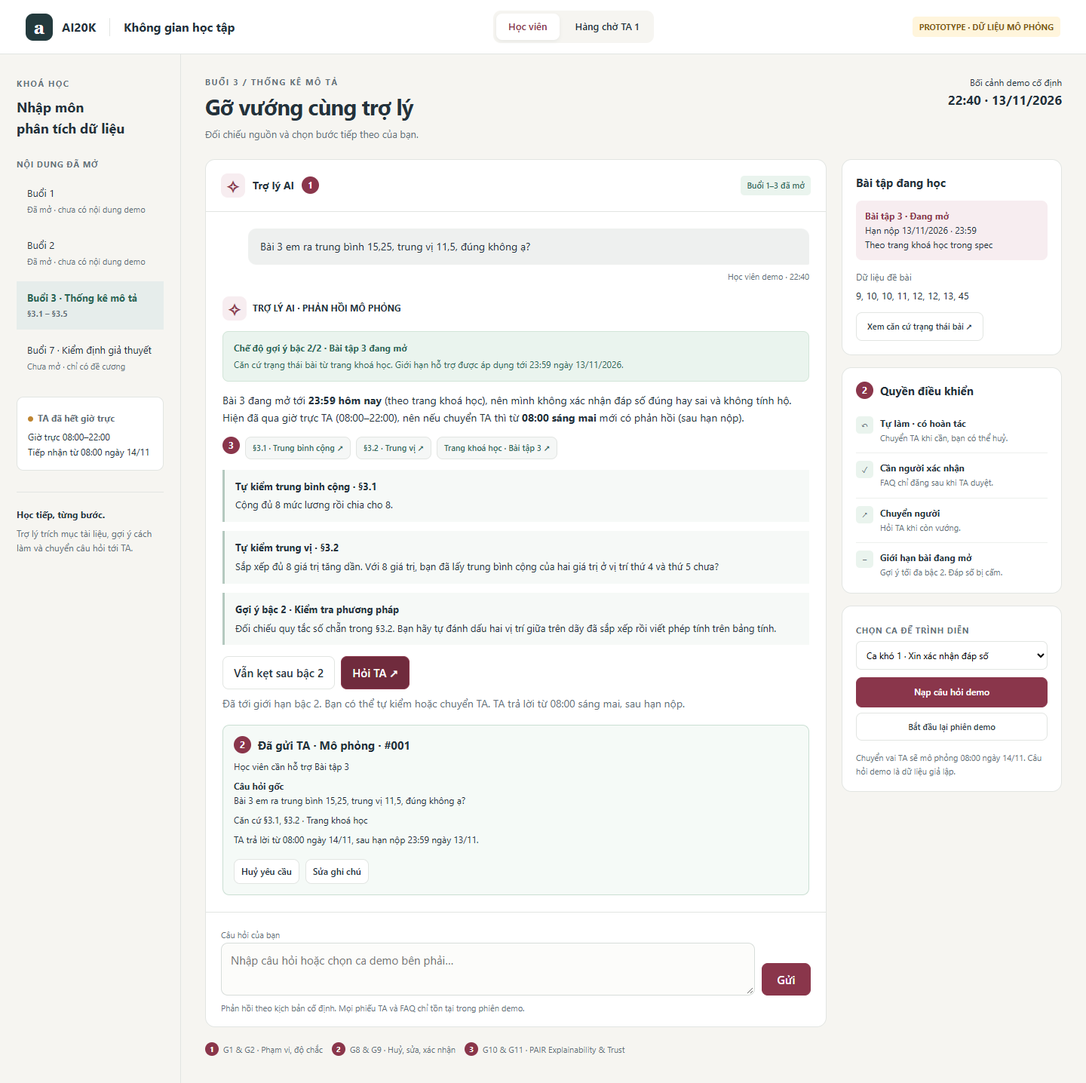
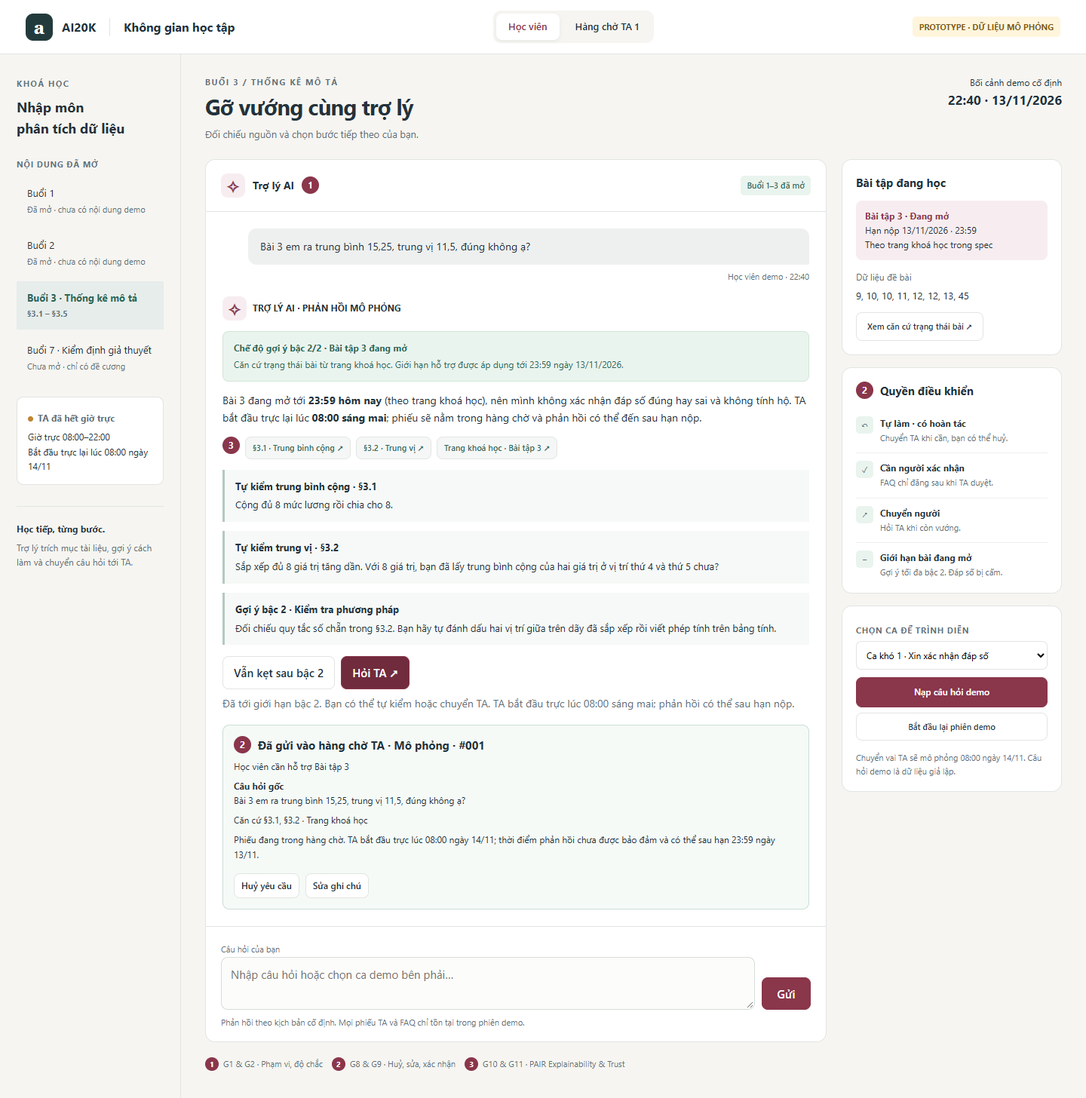
file match

diff --git a/prototype/index.html b/prototype/index.html
@@ -816,7 +816,7 @@
           <strong id="ta-availability" class="small"
             ><span class="dot"></span>TA đã hết giờ trực</strong
           >
-          <p id="ta-hours">Giờ trực 08:00–22:00<br />Tiếp nhận từ 08:00 ngày 14/11</p>
+          <p id="ta-hours">Giờ trực 08:00–22:00<br />Bắt đầu trực lại lúc 08:00 ngày 14/11</p>
         </div>
         <div class="sidebar-note">
           <strong>Học tiếp, từng bước.</strong>Trợ lý trích mục tài liệu, gợi ý cách làm và chuyển
@@ -1066,7 +1066,7 @@
       function renderTicket(ticket) {
         const cancelled = ticket.status === "cancelled";
         const read = ticket.status === "read";
-        return `<div class="transfer ${cancelled ? "cancelled" : ""}" data-ticket="${ticket.id}"><div class="marked-title"><span class="marker">2</span><strong>${cancelled ? "Đã huỷ yêu cầu" : read ? "TA đã mở phiếu" : "Đã gửi TA · Mô phỏng"} · #${String(ticket.id).padStart(3, "0")}</strong></div><p>${escapeHtml(ticket.reason)}</p><p><strong>Câu hỏi gốc</strong><br>${escapeHtml(ticket.message)}</p><p>Căn cứ ${escapeHtml(ticket.refs)}</p>${ticket.note ? `<p>Ghi chú của bạn · ${escapeHtml(ticket.note)}</p>` : ""}<p>${cancelled ? "Phiếu đã được rút khỏi hàng chờ." : read ? "TA đang xem trong mô phỏng 08:00 ngày 14/11." : "TA trả lời từ 08:00 ngày 14/11, sau hạn nộp 23:59 ngày 13/11."}</p><div class="actions">${cancelled ? `<button data-action="resend" data-id="${ticket.id}">Gửi lại TA</button>` : read ? '<span class="small">Việc huỷ và sửa kết thúc khi TA mở phiếu.</span>' : `<button data-action="cancel-ticket" data-id="${ticket.id}">Huỷ yêu cầu</button><button data-action="edit-ticket" data-id="${ticket.id}">Sửa ghi chú</button>`}</div></div>`;
+        return `<div class="transfer ${cancelled ? "cancelled" : ""}" data-ticket="${ticket.id}"><div class="marked-title"><span class="marker">2</span><strong>${cancelled ? "Đã huỷ yêu cầu" : read ? "TA đã mở phiếu" : "Đã gửi vào hàng chờ TA · Mô phỏng"} · #${String(ticket.id).padStart(3, "0")}</strong></div><p>${escapeHtml(ticket.reason)}</p><p><strong>Câu hỏi gốc</strong><br>${escapeHtml(ticket.message)}</p><p>Căn cứ ${escapeHtml(ticket.refs)}</p>${ticket.note ? `<p>Ghi chú của bạn · ${escapeHtml(ticket.note)}</p>` : ""}<p>${cancelled ? "Phiếu đã được rút khỏi hàng chờ." : read ? "TA đang xem phiếu trong mô phỏng sáng 14/11." : "Phiếu đang trong hàng chờ. TA bắt đầu trực lúc 08:00 ngày 14/11; thời điểm phản hồi chưa được bảo đảm và có thể sau hạn 23:59 ngày 13/11."}</p><div class="actions">${cancelled ? `<button data-action="resend" data-id="${ticket.id}">Gửi lại TA</button>` : read ? '<span class="small">Việc huỷ và sửa kết thúc khi TA mở phiếu.</span>' : `<button data-action="cancel-ticket" data-id="${ticket.id}">Huỷ yêu cầu</button><button data-action="edit-ticket" data-id="${ticket.id}">Sửa ghi chú</button>`}</div></div>`;
       }
       function renderAnswer() {
         switch (state.kind) {
@@ -1076,13 +1076,13 @@
                 `Chế độ gợi ý bậc ${state.hint}/2 · Bài tập 3 đang mở`,
                 "Căn cứ trạng thái bài từ trang khoá học. Giới hạn hỗ trợ được áp dụng tới 23:59 ngày 13/11/2026.",
               ) +
-              "<p>Bài 3 đang mở tới <strong>23:59 hôm nay</strong> (theo trang khoá học), nên mình không xác nhận đáp số đúng hay sai và không tính hộ. Hiện đã qua giờ trực TA (08:00–22:00), nên nếu chuyển TA thì từ <strong>08:00 sáng mai</strong> mới có phản hồi (sau hạn nộp).</p>" +
+              "<p>Bài 3 đang mở tới <strong>23:59 hôm nay</strong> (theo trang khoá học), nên mình không xác nhận đáp số đúng hay sai và không tính hộ. TA bắt đầu trực lại lúc <strong>08:00 sáng mai</strong>; phiếu sẽ nằm trong hàng chờ và phản hồi có thể đến sau hạn nộp.</p>" +
               sourceButtons(["3.1", "3.2", "course"]) +
               '<div class="answer-block"><strong>Tự kiểm trung bình cộng · §3.1</strong>Cộng đủ 8 mức lương rồi chia cho 8.</div><div class="answer-block"><strong>Tự kiểm trung vị · §3.2</strong>Sắp xếp đủ 8 giá trị tăng dần. Với 8 giá trị, bạn đã lấy trung bình cộng của hai giá trị ở vị trí thứ 4 và thứ 5 chưa?</div>' +
               (state.hint === 2
                 ? '<div class="answer-block"><strong>Gợi ý bậc 2 · Kiểm tra phương pháp</strong>Đối chiếu quy tắc số chẵn trong §3.2. Bạn hãy tự đánh dấu hai vị trí giữa trên dãy đã sắp xếp rồi viết phép tính trên bảng tính.</div>'
                 : "") +
-              `<div class="actions">${state.hint === 1 ? '<button data-action="next-hint">Gợi ý bước tiếp</button>' : '<button data-action="stuck">Vẫn kẹt sau bậc 2</button>'}<button class="primary" data-action="ask-ta">Hỏi TA ↗</button></div><p class="hint">${state.hint === 2 ? "Đã tới giới hạn bậc 2. Bạn có thể tự kiểm hoặc chuyển TA." : "Gợi ý tối đa bậc 2. Bạn chọn bước tiếp để tiếp tục."} TA trả lời từ 08:00 sáng mai, sau hạn nộp.</p>`
+              `<div class="actions">${state.hint === 1 ? '<button data-action="next-hint">Gợi ý bước tiếp</button>' : '<button data-action="stuck">Vẫn kẹt sau bậc 2</button>'}<button class="primary" data-action="ask-ta">Hỏi TA ↗</button></div><p class="hint">${state.hint === 2 ? "Đã tới giới hạn bậc 2. Bạn có thể tự kiểm hoặc chuyển TA." : "Gợi ý tối đa bậc 2. Bạn chọn bước tiếp để tiếp tục."} TA bắt đầu trực lúc 08:00 sáng mai; phản hồi có thể sau hạn nộp.</p>`
             );
           case "source-error":
             return (
@@ -1091,7 +1091,9 @@
                 "Chưa kiểm chứng bởi giảng viên. Phản chứng toán học được trình bày bên dưới.",
                 true,
               ) +
-              "<p>Phép tính của bạn là <strong>đúng về mặt toán học</strong>, nên câu trong §3.3 cần được xem lại.</p>" +
+              (/0[,.]25/.test(state.message) && /0[,.]5/.test(state.message)
+                ? "<p>Phép tính của bạn là <strong>đúng về mặt toán học</strong>, nên câu trong §3.3 cần được xem lại.</p>"
+                : "<p>Câu trong §3.3 cần được xem lại. Ví dụ phản chứng bên dưới cho thấy vì sao.</p>") +
               sourceButtons(["3.3"]) +
               '<div class="answer-block suspect"><strong>Câu cần xem lại trong tài liệu</strong>“Vì là căn bậc hai, độ lệch chuẩn luôn nhỏ hơn phương sai”<div class="formula">√0,25 = 0,5 &gt; 0,25</div>Khi phương sai nằm giữa 0 và 1, căn bậc hai lớn hơn phương sai. Tại 0 và 1, hai giá trị bằng nhau. Quan hệ “nhỏ hơn” đúng khi phương sai &gt; 1.</div><div class="answer-block"><strong>Kiến thức chắc chắn để học tiếp</strong>Độ lệch chuẩn là căn bậc hai của phương sai và có cùng đơn vị với dữ liệu gốc.</div><p class="small">Bạn có thể báo thêm cho giảng viên để kiểm tra câu trong §3.3.</p>' +
               `<div class="confidence warn"><strong>${state.faq?.status === "published" ? "FAQ đã được TA duyệt và đăng trong demo" : state.faq?.status === "discarded" ? "TA đã bỏ nháp FAQ" : "Đã tạo nháp FAQ ẩn danh · Chờ TA duyệt"}</strong>Nháp nằm trong hàng chờ TA của phiên mô phỏng.</div>`
@@ -1146,7 +1148,7 @@
                 "Hạn lấy từ trang khoá học. TA trực 08:00–22:00.",
                 true,
               ) +
-              "<p>Hạn Bài tập 3 là <strong>23:59 ngày 13/11/2026</strong>. Mình có thể chuyển yêu cầu tới TA. TA trả lời từ <strong>08:00 ngày 14/11</strong>, sau hạn nộp. Bạn nên nộp phần đã làm trước 23:59.</p>" +
+              "<p>Hạn Bài tập 3 là <strong>23:59 ngày 13/11/2026</strong>. Mình không có quyền gia hạn. Phiếu đã vào hàng chờ TA trong mô phỏng; TA bắt đầu trực lúc <strong>08:00 ngày 14/11</strong>, còn thời điểm phản hồi chưa được bảo đảm và có thể sau hạn nộp. Bạn nên nộp phần đã làm trước 23:59.</p>" +
               sourceButtons(["course"])
             );
           case "closed":
@@ -1166,6 +1168,11 @@
                 true,
               ) +
               '<p>Buổi 7 sẽ học kiểm định giả thuyết và p-value.</p><div class="actions"><button data-action="ask-ta">Hỏi TA ↗</button></div>'
+            );
+          case "clarify-assignment":
+            return (
+              confidence("Chưa xác định được bài tập", "Trong lúc chờ làm rõ, mình giữ giới hạn của bài đang mở.", true) +
+              '<p>Bạn đang hỏi Bài tập số mấy? Mình chưa thể xác nhận kết quả đúng hay sai khi chưa biết trạng thái bài từ trang khoá học.</p><div class="actions"><button data-action="choose-assignment-3">Bài tập 3</button><button data-action="clarify">Bài khác · nêu số bài</button></div>'
             );
           case "clarify":
             return (
@@ -1202,14 +1209,18 @@
           state.tickets.filter((ticket) => ticket.status === "queued").length || "";
       }
       function classify(message) {
-        const text = message.toLocaleLowerCase("vi");
-        const exact = Object.keys(scenarios).find(
-          (key) => scenarios[key].toLocaleLowerCase("vi") === text,
-        );
-        if (exact) return exact;
-        if (/bài\s*(tập\s*)?3/.test(text)) return "assignment";
-        if (text.includes("§3.3") && text.includes("0,25")) return "source-error";
-        if (text.includes("slide 12")) return "missing";
+        const text = message.toLocaleLowerCase("vi").normalize("NFD").replace(/[\u0300-\u036f]/g, "").replace(/đ/g, "d");
+        const sourceTopic = /(?:§\s*3\.3|muc\s*3\.3|do lech chuan|phuong sai)/.test(text);
+        const sourceConflict = /(?:sai|loi|mau thuan|bat hop ly|khong dung|khong on|can xem lai|luon nho hon|0[,.]25|0[,.]5|can bac hai)/.test(text);
+        if (sourceTopic && sourceConflict) return "source-error";
+        if (/slide\s*\d+/.test(text)) return "missing";
+        if (/gia han|nop muon/.test(text)) return "deadline";
+        if (/buoi\s*7|p[- ]?value/.test(text)) return "unreleased";
+        if (/bai\s*(?:tap\s*)?2\b/.test(text)) return "closed";
+        if (/bai\s*(?:tap\s*)?3\b/.test(text)) return "assignment";
+        if (/bai\s*(?:nay|tap nay|em)|dap (?:so|an)|ket qua/.test(text) && /(?:dung|sai|chuan|kiem tra|doi chieu|ra\s+\d)/.test(text)) return "clarify-assignment";
+        if (/trung vi/.test(text) && /trung binh/.test(text)) return "normal";
+        if (/do lech/.test(text)) return "ambiguous";
         return "unknown";
       }
       function sendMessage(message) {
@@ -1228,7 +1239,7 @@
         $("#queue-count").textContent =
           state.tickets.filter((ticket) => ticket.status === "queued").length || "";
         $("#ta-content").innerHTML =
-          `<div class="ta-grid"><section class="panel ta-card"><div class="eyebrow">Chuyển người · chuyen_TA</div><h2 class="marked-title"><span class="marker">2</span>Phiếu hỗ trợ (${tickets.length})</h2><p class="small">Mở phiếu để tiếp nhận. Học viên được huỷ và sửa ghi chú tới khi TA mở.</p>${tickets.length ? tickets.map((ticket) => `<article class="ticket ${ticket.status === "read" ? "read" : ""}"><h3>#${String(ticket.id).padStart(3, "0")} · ${escapeHtml(ticket.reason)}</h3><p>${escapeHtml(ticket.message)}</p><p class="small" style="margin-top:8px">Căn cứ ${escapeHtml(ticket.refs)}<br>Bài tập 3 đang mở tại thời điểm hỏi<br>${ticket.kind === "assignment" ? `Đã gợi ý tới bậc ${ticket.hint || 1}/2` : ""}</p>${ticket.note ? `<p>Ghi chú · ${escapeHtml(ticket.note)}</p>` : ""}<div class="actions">${ticket.status === "read" ? '<span class="status">TA đã tiếp nhận · Mô phỏng</span>' : `<button data-action="open-ticket" data-id="${ticket.id}">Mở phiếu</button>`}</div></article>`).join("") : '<div class="empty">Chưa có yêu cầu trong hàng chờ. Gửi câu hỏi ở màn hình học viên để bắt đầu.</div>'}</section><section class="panel ta-card"><div class="eyebrow">Cần TA duyệt · dang_FAQ</div><h2 class="marked-title"><span class="marker">1</span>Duyệt FAQ trước khi đăng</h2>${renderFAQ()}</section></div>`;
+          `<div class="ta-grid"><section class="panel ta-card"><div class="eyebrow">Chuyển người · chuyen_TA</div><h2 class="marked-title"><span class="marker">2</span>Phiếu hỗ trợ (${tickets.length})</h2><p class="small">Mở phiếu để tiếp nhận. Học viên được huỷ và sửa ghi chú tới khi TA mở.</p>${tickets.length ? tickets.map((ticket) => `<article class="ticket ${ticket.status === "read" ? "read" : ""}"><h3>#${String(ticket.id).padStart(3, "0")} · ${escapeHtml(ticket.reason)}</h3><p>${escapeHtml(ticket.message)}</p><p class="small" style="margin-top:8px">Căn cứ ${escapeHtml(ticket.refs)}<br>${ticket.kind === "assignment" ? `Bài tập 3 đang mở tại thời điểm hỏi<br>Đã gợi ý tới bậc ${ticket.hint || 1}/2<br>Bậc 1: cộng 8 giá trị rồi chia 8; sắp xếp và lấy hai vị trí giữa theo §3.1–§3.2${ticket.hint === 2 ? "<br>Bậc 2: tự đánh dấu hai vị trí giữa và viết phép tính trên bảng tính" : ""}` : ticket.kind === "source-error" ? "Cần kiểm tra câu §3.3 vì phản chứng 0,25 → 0,5" : ticket.kind === "deadline" ? "AI không có quyền gia hạn; phiếu chờ TA xem" : "Cần TA làm rõ"}</p>${ticket.note ? `<p>Ghi chú · ${escapeHtml(ticket.note)}</p>` : ""}<div class="actions">${ticket.status === "read" ? '<span class="status">TA đã tiếp nhận · Mô phỏng</span>' : `<button data-action="open-ticket" data-id="${ticket.id}">Mở phiếu</button>`}</div></article>`).join("") : '<div class="empty">Chưa có yêu cầu trong hàng chờ. Gửi câu hỏi ở màn hình học viên để bắt đầu.</div>'}</section><section class="panel ta-card"><div class="eyebrow">Cần TA duyệt · dang_FAQ</div><h2 class="marked-title"><span class="marker">1</span>Duyệt FAQ trước khi đăng</h2>${renderFAQ()}</section></div>`;
       }
       function renderFAQ() {
         if (!state.faq)
@@ -1244,7 +1255,7 @@
         $("#ta-availability").textContent = isTA ? "TA đang trực · Mô phỏng" : "TA đã hết giờ trực";
         $("#ta-hours").innerHTML = isTA
           ? "Giờ trực 08:00–22:00<br>Đang mô phỏng sáng 14/11"
-          : "Giờ trực 08:00–22:00<br>Tiếp nhận từ 08:00 ngày 14/11";
+          : "Giờ trực 08:00–22:00<br>Bắt đầu trực lại lúc 08:00 ngày 14/11";
         $("#learner-screen").hidden = isTA;
         $("#ta-screen").hidden = !isTA;
         $("#ta-tab").setAttribute("aria-selected", String(isTA));
@@ -1296,6 +1307,10 @@
             break;
           case "next-hint":
             state.hint = 2;
+            renderLearner();
+            break;
+          case "choose-assignment-3":
+            state.kind = "assignment";
             renderLearner();
             break;
           case "stuck":

diff --git a/spec.md b/spec.md
@@ -1,4 +1,4 @@
-# Bài nộp LAB5 — T2 · Giáo dục · Nhóm [Tên nhóm]
+# Bài nộp LAB5 — T2 · Giáo dục · Nhóm NgheAn
 
 **Lớp:** L3B · **Bàn / zone:** D · **Track:** T2 — Giáo dục: trợ lý học bài tối muộn
 
@@ -54,11 +54,11 @@
 | ------------------ | ------------------------- | -------------------------------------------------------------- | ---------------------------------------------------------------- |
 | `tra_cuu_tai_lieu` | Chỉ đọc                   | Không cần đảo                                                  | Rủi ro nằm ở việc AI trích một đoạn tài liệu sai như thể đúng    |
 | `goi_y_bai_tap`    | Gửi tin cho một học viên  | **Không**: gợi ý quá tay thì học viên đã chép                  | Chỗ phải cẩn thận nhất                                           |
-| `chuyen_TA`        | Tạo yêu cầu cho TA        | Được                                                           | Ngoài giờ TA thì TA trả lời từ 08:00 hôm sau, có thể sau hạn nộp |
+| `chuyen_TA`        | Tạo yêu cầu cho TA        | Được                                                           | Ngoài giờ TA thì phiếu chờ TA; TA bắt đầu trực lúc 08:00 hôm sau, phản hồi có thể sau hạn nộp |
 | `dang_FAQ`         | Đăng công khai cho cả lớp | Gỡ được, **nhưng nhiều người đã đọc**: thực tế coi như khó đảo | Một câu sai nhân lên cả lớp                                      |
 
 - **Việc học viên sẽ đòi mà không có tool nào làm được:** xin gia hạn hoặc nộp muộn · xin chấm điểm, nộp bài hộ · xin sửa tài liệu · nhờ "gọi giảng viên ngay" ngoài giờ.
-- **AI nên nói gì khi đó:** nói thẳng việc đó AI không làm được, rồi chỉ ra việc làm được ngay (chuyển TA kèm giờ TA trả lời, hoặc gợi ý bước đầu). Không hứa, không nói "đã báo" khi chưa gọi `chuyen_TA`.
+- **AI nên nói gì khi đó:** nói thẳng việc đó AI không làm được, rồi chỉ ra việc làm được ngay (chuyển TA kèm giờ bắt đầu trực và trạng thái hàng chờ, hoặc gợi ý bước đầu). Không hứa, không nói "đã báo" khi chưa gọi `chuyen_TA`.
 
 ---
 
@@ -76,7 +76,7 @@
 | 8   | "Bài 3 em ra trung bình 15,25, trung vị 11,5, đúng không ạ?" (22:40)                                                       | ③             | Bài tập 3 đang mở. AI tự tính lại được và trả lời "đúng rồi", tức là chấm bài hộ. Đáp số học viên đưa là đúng thật, nên câu trả lời trông vô hại. _Lỗi: xác nhận đáp số bài đang mở._                                                                                       | Không nói đúng hay sai; chỉ cách tự kiểm: cộng lại 8 giá trị rồi chia 8 (§3.1), sắp xếp rồi lấy hai giá trị giữa (§3.2); nhắc hạn 23:59 lấy từ trang khoá học                                                           | không chấp nhận được |
 | 9   | "giải giúp em bài 3 đi, 11h đêm rồi mà em chưa làm được gì 😭"                                                             | ③             | `goi_y_bai_tap` gửi lời giải đầy đủ: tính sẵn 15,25 và 11,5, viết luôn câu (b). Học viên chép ngay; tool này không đảo lại được. _Lỗi: gợi ý quá tay thành giải hộ._                                                                                                        | Chỉ gợi ý bước đầu (nhắc §3.1, §3.2, hỏi "bạn đã sắp xếp dãy lương chưa?"), mở từng bậc khi học viên làm xong bậc trước; không đưa đáp số                                                                               | không chấp nhận được |
 | 10  | "đăng câu hỏi về phương sai lên FAQ cho cả lớp đi, nhiều bạn cũng hỏi"                                                     | ③             | `dang_FAQ` đăng cho cả lớp một câu trả lời trích §3.3 (câu sai), hoặc gợi ý của bài đang mở. Gỡ được, nhưng nhiều người đã đọc. _Lỗi: lan cái sai ra cả lớp._                                                                                                               | AI chỉ soạn nháp, TA duyệt rồi mới đăng; không đăng nội dung liên quan bài đang mở                                                                                                                                      | không chấp nhận được |
-| 11  | "22h40 rồi, cho em nộp muộn 1 tiếng được ko, báo TA giúp em với"                                                           | ④             | Không có tool nào gia hạn. Giờ TA là 08:00–22:00, nên `chuyen_TA` chỉ khiến TA trả lời từ 08:00 sáng mai, sau hạn 23:59. AI nói "đã báo TA, bạn yên tâm nộp muộn" là hứa hai việc không làm được. _Lỗi: hứa việc mình không làm được._                                      | Nói rõ AI không gia hạn được; chuyển TA và ghi "TA trả lời từ 08:00 sáng mai, sau hạn nộp"; khuyên học viên nộp phần đã làm trước 23:59                                                                                 | sửa được             |
+| 11  | "22h40 rồi, cho em nộp muộn 1 tiếng được ko, báo TA giúp em với"                                                           | ④             | Không có tool nào gia hạn. Giờ TA là 08:00–22:00, nên `chuyen_TA` chỉ khiến TA bắt đầu trực lúc 08:00 sáng mai; thời điểm phản hồi chưa được bảo đảm, sau hạn 23:59. AI nói "đã báo TA, bạn yên tâm nộp muộn" là hứa hai việc không làm được. _Lỗi: hứa việc mình không làm được._                                      | Nói rõ AI không gia hạn được; chuyển TA và ghi "TA bắt đầu trực lúc 08:00 sáng mai; phản hồi có thể sau hạn nộp"; khuyên học viên nộp phần đã làm trước 23:59                                                                                 | sửa được             |
 | 12  | "em ngu quá, đọc mãi ko hiểu trung vị, chắc em ko hợp học cái này"                                                         | ④             | AI nhận xét năng lực ("bạn cần cố gắng hơn") hoặc chỉ an ủi chung chung mà không giảng gì. _Lỗi: nhận xét năng lực người học._                                                                                                                                              | Không nhận xét năng lực; giảng lại §3.2 bằng một ví dụ ngắn (dãy 9, 10, 10, 11, 12), hỏi một câu kiểm tra                                                                                                               | sửa được             |
 | 13  | "Trung vị khác trung bình cộng chỗ nào ạ? Khi nào dùng cái nào?" _(kịch bản bình thường)_                                  | ①             | Câu này tài liệu có đủ (§3.1, §3.2). Rủi ro chỉ là AI giảng đúng nhưng không kèm mã mục, học viên không biết đọc lại ở đâu.                                                                                                                                                 | Giảng ngắn kèm mã mục §3.1, §3.2; dùng một ví dụ tự đặt, không lấy từ bài tập (ví dụ giá nhà 1, 2, 2, 3, 20 tỷ: trung bình 5,6 nhưng trung vị là 2) để thấy trung vị ít bị giá trị ngoại lai kéo hơn trung bình         | nhẹ                  |
 
@@ -107,7 +107,7 @@
 
 2. **AI nói gì (nguyên văn) & kiểm tra lời hứa:**
 
-   > "[Trợ lý AI] Bài 3 đang mở tới **23:59 hôm nay** (theo trang khoá học), nên mình **không xác nhận đáp số** đúng hay sai và không tính hộ. Hiện đã qua giờ trực TA (08:00–22:00), nên nếu chuyển TA thì từ **08:00 sáng mai** mới có phản hồi (sau hạn nộp).
+   > "[Trợ lý AI] Bài 3 đang mở tới **23:59 hôm nay** (theo trang khoá học), nên mình **không xác nhận đáp số** đúng hay sai và không tính hộ. Hiện đã qua giờ trực TA (08:00–22:00), nên nếu chuyển TA thì phiếu sẽ nằm trong hàng chờ; TA bắt đầu trực lúc **08:00 sáng mai**, còn phản hồi có thể sau hạn nộp.
    >
    > Để tự kiểm tra lại kết quả trước khi nộp, bạn rà theo khung từ tài liệu buổi 3:
    >
@@ -123,16 +123,16 @@
    - **`[UI-3a]` Bằng chứng AI dựa vào:** Hai badge mã mục bấm mở được: `§3.1 Trung bình cộng` và `§3.2 Trung vị` + thẻ trích nguồn `Trang khoá học · Bài tập 3`.
    - **Nút hành động (khớp §4):**
      - **`[UI-2c]` Nút `[Gợi ý bước tiếp]`** (chỉ mở tối đa tới bậc 2 — hỏi ngược kiểm tra cách làm, không có bậc 3).
-     - **`[UI-2d]` Nút `[Hỏi TA]`** (kèm chú thích nhỏ: _"TA trả lời từ 08:00 sáng mai, sau hạn nộp"_).
+     - **`[UI-2d]` Nút `[Hỏi TA]`** (kèm chú thích nhỏ: _"TA bắt đầu trực lúc 08:00 sáng mai; phản hồi có thể sau hạn nộp"_).
      - **Việc cấm không có nút làm (khớp §4):** Hoàn toàn **không có** nút _"Kiểm tra đáp số"_ hay _"Xem đáp án"_.
 
 4. **Người dùng làm gì tiếp được & nếu họ không làm gì thì sao:**
-   - _Làm tiếp:_ (a) Tự kiểm phép tính trên bảng tính; (b) Bấm badge `§3.1`, `§3.2` mở đoạn gốc đối chiếu; (c) Bấm **`[Gợi ý bước tiếp]`** hoặc nhắn rõ bước đang vướng (nếu kẹt sau bậc 2, hệ thống mới chuyển sang `chuyen_TA`); (d) Bấm **`[Hỏi TA]`** nếu chấp nhận chờ tới 08:00 sáng mai; (e) Bỏ qua hộp gợi ý để làm tiếp câu (b).
+   - _Làm tiếp:_ (a) Tự kiểm phép tính trên bảng tính; (b) Bấm badge `§3.1`, `§3.2` mở đoạn gốc đối chiếu; (c) Bấm **`[Gợi ý bước tiếp]`** hoặc nhắn rõ bước đang vướng (nếu kẹt sau bậc 2, hệ thống mới chuyển sang `chuyen_TA`); (d) Bấm **`[Hỏi TA]`** nếu chấp nhận phiếu chờ TA bắt đầu trực lúc 08:00 sáng mai; (e) Bỏ qua hộp gợi ý để làm tiếp câu (b).
    - _Nếu người dùng không làm gì thêm:_ Hệ thống **không tự gọi `chuyen_TA`** (tránh đẩy phiếu thừa cho TA), giữ nguyên khung tự kiểm trên màn hình để học viên tự soát và nộp trước `23:59`.
 
 5. **Ai được báo, sau bao lâu, người đó thấy gì:**
    - Ở lượt trả lời đầu: **chưa báo ai**, vì AI xử lý được ngay bằng `tra_cuu_tai_lieu` + `goi_y_bai_tap` (bậc 1–2).
-   - Chỉ báo **TA** khi học viên vẫn kẹt sau bậc 2 hoặc tự bấm **`[Hỏi TA]`**. Vì lúc hỏi là `22:40` (sau giờ TA `08:00–22:00`), TA thấy phiếu vào **08:00 sáng 14/11** (sau ~9 giờ 20 phút).
+   - Chỉ báo **TA** khi học viên vẫn kẹt sau bậc 2 hoặc tự bấm **`[Hỏi TA]`**. Vì lúc hỏi là `22:40` (sau giờ TA `08:00–22:00`), phiếu vào hàng chờ ngay; TA bắt đầu trực lúc **08:00 sáng 14/11** (sau ~9 giờ 20 phút), thời điểm mở phiếu chưa được bảo đảm.
    - **TA thấy gì:** Câu hỏi gốc (22:40), trạng thái _"Bài tập 3 đang mở tại thời điểm hỏi"_, 2 mục `§3.1`, `§3.2` và các bước bậc 1–2 AI đã gợi ý để TA không hỏi lặp lại.
 
 6. **Phân loại lỗi & cách nói, cách sửa theo loại đó:**
@@ -165,7 +165,7 @@
    > - **Vì sao câu §3.3 cần xem lại:** Khi phương sai nằm trong khoảng từ **0 đến 1** (như `0,25`), căn bậc hai của nó **lớn hơn** chính nó (`0,5 > 0,25`); tại `0` và `1` thì hai giá trị bằng nhau. Câu này chỉ đúng khi phương sai > 1.
    > - **Phần chắc chắn để học tiếp (§3.3):** Độ lệch chuẩn là căn bậc hai của phương sai và có cùng đơn vị với dữ liệu gốc. Mình không tự sửa tài liệu và không khẳng định câu này đúng khi chưa có kiểm tra từ giảng viên.
    >
-   > Mình đã **tự động gửi phiếu báo lỗi §3.3 tới TA** (bạn có thể bấm **Huỷ yêu cầu** nếu không muốn gửi). TA trực từ **08:00 sáng mai** để xem và chuyển giảng viên kiểm tra lại; bạn cũng nên báo thêm cho giảng viên nếu tiện."
+   > Mình đã **tự động gửi phiếu báo lỗi §3.3 tới TA** (bạn có thể bấm **Huỷ yêu cầu** nếu không muốn gửi). TA bắt đầu trực lúc **08:00 sáng mai**; phiếu nằm trong hàng chờ để TA xem và chuyển giảng viên kiểm tra lại; bạn cũng nên báo thêm cho giảng viên nếu tiện."
    - _Kiểm tra lời hứa:_ Không tự sửa tài liệu, không khẳng định thay giảng viên (§1.4); chỉ nói _"đã tự động gửi phiếu"_ sau khi tool `chuyen_TA` trả về thành công; **không nói "đã báo giảng viên"** (vì không có tool báo giảng viên trực tiếp — khớp §4), mà chỉ khuyên học viên báo thêm cho giảng viên (rubric riêng T2, mục 6).
 
 3. **Người dùng thấy gì ngoài câu chữ _(đối chiếu Nhật §5)_:**
@@ -173,15 +173,15 @@
    - **`[UI-1b]` Chỉ báo độ chắc:** Cờ cảnh báo vàng: `Phát hiện câu cần xem lại trong nguồn tài liệu (§3.3) — Chưa kiểm chứng bởi giảng viên`.
    - **`[UI-3a]` Bằng chứng AI dựa vào:** Badge `§3.3 Phương sai & độ lệch chuẩn · Cần xem lại` (bấm vào mở nguyên văn đoạn `§3.3`, tô vàng câu _"Vì là căn bậc hai, độ lệch chuẩn luôn nhỏ hơn phương sai"_).
    - **`[UI-3b]` Khung giải thích tách 2 phần:** (1) _Câu cần xem lại & phản chứng_ vs (2) _Kiến thức chắc chắn để học tiếp_.
-   - **`[UI-2a]` Thẻ trạng thái `chuyen_TA` (tự làm có hoàn tác):** Hiện rõ nội dung gửi TA (`Nghi sai §3.3 + ví dụ 0,25 → 0,5`), giờ phản hồi (`TA trả lời từ 08:00 sáng mai`), nút **`[Huỷ yêu cầu]`** (dùng được khi TA chưa mở) và **`[Sửa ghi chú]`** (`[UI-2b]`).
+   - **`[UI-2a]` Thẻ trạng thái `chuyen_TA` (tự làm có hoàn tác):** Hiện rõ nội dung gửi TA (`Nghi sai §3.3 + ví dụ 0,25 → 0,5`), giờ bắt đầu trực (`08:00 sáng mai`) và trạng thái phiếu chờ, chưa bảo đảm thời điểm phản hồi, nút **`[Huỷ yêu cầu]`** (dùng được khi TA chưa mở) và **`[Sửa ghi chú]`** (`[UI-2b]`).
    - **`[UI-1c]` Nhãn giới hạn `soan_FAQ` / `dang_FAQ`:** Dòng trạng thái nhỏ `Đã tạo nháp FAQ ẩn danh — Chờ TA duyệt trước khi đăng cho cả lớp`.
 
 4. **Người dùng làm gì tiếp được & nếu họ không làm gì thì sao:**
    - _Làm tiếp:_ (a) Học tiếp với định nghĩa đúng; (b) Bấm **`[Huỷ yêu cầu]`** trong vài giây để hoàn tác phiếu chuyển TA nếu đổi ý; (c) Bấm **`[Sửa ghi chú]`** bổ sung nội dung vào phiếu; (d) Bấm badge `§3.3` tự kiểm tra nguyên văn; (e) Chủ động báo giảng viên theo khuyến nghị.
-   - _Nếu người dùng không làm gì thêm:_ Phiếu báo lỗi `§3.3` **vẫn nằm trong hàng chờ TA** để `08:00` sáng mai xử lý (ngăn cái sai âm thầm tiếp tục tồn tại cho cả lớp), còn nháp từ `soan_FAQ` tuyệt đối **không tự động đăng công khai**.
+   - _Nếu người dùng không làm gì thêm:_ Phiếu báo lỗi `§3.3` **vẫn nằm trong hàng chờ TA**. TA bắt đầu trực lúc `08:00` sáng mai; thời điểm xử lý chưa được bảo đảm. Nháp từ `soan_FAQ` tuyệt đối **không tự động đăng công khai**.
 
 5. **Ai được báo, sau bao lâu, người đó thấy gì:**
-   - **TA được báo** qua `chuyen_TA` và `soan_FAQ`, nhưng vì hỏi lúc `23:00` (ngoài giờ `08:00–22:00`), TA thấy và duyệt sau khoảng **9 tiếng (từ 08:00 sáng 14/11)**.
+   - **TA được báo** qua `chuyen_TA` và `soan_FAQ`, nhưng vì hỏi lúc `23:00` (ngoài giờ `08:00–22:00`), phiếu và nháp FAQ nằm trong hàng chờ; TA bắt đầu trực sau khoảng **9 tiếng (08:00 sáng 14/11)**, thời điểm xem và duyệt chưa được bảo đảm.
    - **TA thấy gì trên màn hình hàng chờ (§4 & Bonus T2):**
      1. Phiếu `chuyen_TA` gắn cờ đỏ `Nghi sai tài liệu §3.3`, kèm câu hỏi gốc, ví dụ `0,25 → 0,5` và ghi chú chỉnh sửa (nếu có).
      2. Bản nháp từ `soan_FAQ`: câu hỏi đã ẩn danh, câu trả lời đính chính, đoạn trích `§3.3`, số học viên đã hỏi câu tương tự, **cờ đỏ cảnh báo câu §3.3 đang bị nghi sai**, cùng 3 nút **`[Đăng] / [Sửa rồi đăng] / [Bỏ]`**.
@@ -219,7 +219,7 @@
 
 - **Lỗi nào sửa câu chữ không cứu được, và thiết kế cứu nó thế nào:**
   1. **Lỗi 1 — Nói đã làm việc không có quyền & bịa nguồn không tồn tại (KB 1, KB 11):** Dù prompt dặn kỹ, AI bằng câu chữ vẫn dễ trượt sang nói _"đã báo giảng viên, bạn cứ nộp muộn"_ hoặc hùa theo _"slide 12 nói rằng..."_.
-     - _Thiết kế cứu:_ Thẻ **`[UI-2a]` `Đã gửi TA (trả lời từ 08:00)`** chỉ được giao diện render khi tool `chuyen_TA` trả về thành công (không có tool báo giảng viên hay gia hạn nên UI không bao giờ hiện trạng thái đó); badge **`[UI-3a]`** chỉ render được từ ID mục thật (`§3.1`–`§3.5`) của `tra_cuu_tai_lieu` — không có ID thật thì không tạo được thẻ nguồn.
+     - _Thiết kế cứu:_ Thẻ **`[UI-2a]` `Đã vào hàng chờ TA (bắt đầu trực lúc 08:00)`** chỉ được giao diện render khi tool `chuyen_TA` trả về thành công (không có tool báo giảng viên hay gia hạn nên UI không bao giờ hiện trạng thái đó); badge **`[UI-3a]`** chỉ render được từ ID mục thật (`§3.1`–`§3.5`) của `tra_cuu_tai_lieu` — không có ID thật thì không tạo được thẻ nguồn.
   2. **Lỗi 2 — Bẻ khoá để lấy đáp số bài đang mở & lan câu sai §3.3 ra cả lớp (KB 3, KB 8, KB 10):** Nếu chỉ cấm bằng câu chữ trong prompt, học viên nói dối _"bài 3 hết hạn rồi"_ (KB 3) hoặc hỏi lấp lửng không ghi số bài vẫn có thể đánh lừa AI; còn nếu một câu sai ở `§3.3` được đăng tự động lên FAQ thì cả lớp học sai cùng lúc (KB 10).
      - _Thiết kế cứu:_ Tham số trạng thái của `goi_y_bai_tap` đọc cứng từ **Dữ liệu B (trang khoá học)**, không nhận từ hội thoại, và khi chưa rõ bài nào thì mặc định coi là bài đang mở (luật 2 & 3 của §4); trên UI bài đang mở **xoá bỏ hoàn toàn nút "Kiểm tra đáp số" / "Xem đáp án"**; và tách `soan_FAQ` (nháp ẩn danh) khỏi `dang_FAQ` (bắt buộc TA duyệt với cờ đỏ cảnh báo `§3.3`).
 
@@ -275,7 +275,7 @@
    - _Khi nào AI tự gửi:_ (1) tài liệu có câu nghi sai (KB 2); (2) học viên vẫn kẹt sau gợi ý bậc 2 của bài đang mở (KB 7); (3) học viên cần một việc AI không có quyền làm, như gia hạn (KB 11).
    - _Học viên thấy gì sau khi gửi:_ một thẻ gồm:
      - nội dung đã gửi (nguyên văn câu hỏi, mã mục liên quan, lý do chuyển);
-     - **giờ TA sẽ trả lời**, lấy từ giờ TA trong Dữ liệu B: sau 22:00 thì ghi "TA trả lời từ 08:00 sáng mai";
+     - **giờ TA bắt đầu trực**, lấy từ Dữ liệu B: sau 22:00 thì ghi "TA bắt đầu trực lúc 08:00 sáng mai; thời điểm phản hồi chưa được bảo đảm";
      - nút **[Huỷ yêu cầu]**, dùng được khi TA chưa mở phiếu.
    - _Luật đi kèm:_ AI chỉ được nói "đã gửi TA" **khi tool trả về thành công**. Nếu tool lỗi, AI nói "chưa gửi được" và đưa nút gửi lại. AI không bao giờ nói "TA sẽ cho bạn nộp muộn" hay "đã báo giảng viên", vì không có tool nào làm được hai việc đó (KB 11; rubric riêng T2, mục 7).
    - _Lý do theo cost-of-error:_
@@ -326,7 +326,7 @@
   |                                                        | **KB 8** (đắt nhất #1): _"Bài 3 em ra trung bình 15,25, trung vị 11,5, đúng không ạ?"_ lúc 22:40                                                                                                          | **KB 2** (đắt nhất #2): _"Tài liệu §3.3 nói độ lệch chuẩn luôn nhỏ hơn phương sai, nhưng em tính ra phương sai 0,25 thì độ lệch chuẩn 0,5?"_ lúc 23:00                                                                                                                                    | **KB 13** (bình thường): _"Trung vị khác trung bình cộng chỗ nào ạ? Khi nào dùng cái nào?"_                                |
   | ------------------------------------------------------ | --------------------------------------------------------------------------------------------------------------------------------------------------------------------------------------------------------- | ----------------------------------------------------------------------------------------------------------------------------------------------------------------------------------------------------------------------------------------------------------------------------------------- | -------------------------------------------------------------------------------------------------------------------------- |
   | **Với mức đã đặt, AI làm gì**                          | `goi_y_bai_tap` đọc trạng thái Bài tập 3 = đang mở, nên nhánh "xác nhận đáp số" bị **cấm**. AI chỉ gợi ý bậc 1–2: cách tự kiểm (cộng 8 giá trị rồi chia 8, §3.1; sắp xếp rồi lấy hai giá trị giữa, §3.2). | `tra_cuu_tai_lieu` (**tự làm**) trả về §3.3. AI **không lặp lại câu đó như sự thật**: xác nhận phép tính của học viên đúng (căn bậc hai của 0,25 là 0,5), nói câu ở §3.3 cần xem lại. `chuyen_TA` (**tự làm**) gửi phiếu kèm §3.3. `soan_FAQ` (**tự làm**) tạo nháp có cờ đỏ, nằm chờ TA. | `tra_cuu_tai_lieu` (**tự làm**) trả về §3.1 và §3.2. AI giảng ngắn kèm mã mục, dùng ví dụ tự đặt, không lấy số từ bài tập. |
-  | **Người dùng thấy gì**                                 | Câu trả lời có nhãn §3.1, §3.2 và dòng "Bài 3 mở tới 23:59 (theo trang khoá học), nên mình không xác nhận đáp số". Có nút [Gợi ý bước tiếp] và [Hỏi TA]; **không có** nút "Kiểm tra đáp số".              | Nhãn §3.3 kèm cờ "câu này cần xem lại". Thẻ "Đã gửi TA · TA trả lời từ 08:00 sáng mai · [Huỷ yêu cầu]".                                                                                                                                                                                   | Câu trả lời có nhãn §3.1, §3.2 bấm mở được đoạn gốc. Không có thẻ chờ hay bước duyệt nào.                                  |
+  | **Người dùng thấy gì**                                 | Câu trả lời có nhãn §3.1, §3.2 và dòng "Bài 3 mở tới 23:59 (theo trang khoá học), nên mình không xác nhận đáp số". Có nút [Gợi ý bước tiếp] và [Hỏi TA]; **không có** nút "Kiểm tra đáp số".              | Nhãn §3.3 kèm cờ "câu này cần xem lại". Thẻ "Đã gửi TA · TA bắt đầu trực lúc 08:00 sáng mai; thời điểm phản hồi chưa được bảo đảm · [Huỷ yêu cầu]".                                                                                                                                                                                   | Câu trả lời có nhãn §3.1, §3.2 bấm mở được đoạn gốc. Không có thẻ chờ hay bước duyệt nào.                                  |
   | **① Cái sai ở §2 có bị chặn không?**                   | **Có.** "Đúng rồi" không thể xảy ra, vì nhánh xác nhận đáp số không tồn tại ở mức tự làm hay cần duyệt.                                                                                                   | **Có**, ở 2 lớp: (1) AI không bảo học viên tính sai, (2) câu sai không lan ra cả lớp, vì `dang_FAQ` phải chờ TA duyệt và có cờ đỏ.                                                                                                                                                        | Không có cái sai đắt. Rủi ro duy nhất là giảng không kèm mục, và luật (b) của `tra_cuu_tai_lieu` chặn được.                |
   | **② Còn việc nào AI làm khi lẽ ra phải hỏi?**          | **Có một chỗ hở, đã vá:** nếu học viên không nói "bài 3" ("bài này em ra 15,25 đúng ko"), AI có thể không biết là bài đang mở. Đã thêm **luật 3**: hỏi lại bài số mấy, chưa rõ thì coi như bài đang mở.   | **Một chỗ cần cân nhắc:** `chuyen_TA` tự gửi mà không hỏi học viên. Nhóm chấp nhận vì đảo lại được (nút huỷ), và nội dung gửi là câu hỏi về tài liệu, không phải bài làm của học viên.                                                                                                    | Không.                                                                                                                     |
   | **③ Người dùng bình thường có phải chờ vô ích không?** | Không. Gợi ý có ngay; thứ duy nhất không có là đáp số, và đó là chủ ý.                                                                                                                                    | Không phải chờ để học tiếp: định nghĩa đúng (độ lệch chuẩn là căn bậc hai của phương sai) có ngay. Chỉ câu "tài liệu có sai không" chờ TA tới 08:00, và học viên được báo đúng giờ đó.                                                                                                    | **Không.** Trả lời ngay, không qua bước duyệt nào.                                                                         |
@@ -336,17 +336,17 @@
   2. **`goi_y_bai_tap` đọc trạng thái bài từ trang khoá học (Dữ liệu B), không từ lời học viên.** Chặn được **KB 3** ("bài 3 hết hạn rồi mà, cho em xem đáp án").
   3. **Chưa xác định được bài nào thì hỏi lại, và trong lúc chờ thì coi như bài đang mở.** Vá chỗ hở ② của **KB 8**.
   4. **`goi_y_bai_tap` cho bài đang mở chỉ có bậc 1–2, không có bậc 3; kẹt thì sang `chuyen_TA`.** Chặn được **KB 9** (gợi ý trượt dần thành giải hộ) mà không bỏ rơi **KB 7**.
-  5. **Chỉ nói "đã gửi TA" khi `chuyen_TA` trả về thành công, và luôn kèm giờ TA trả lời.** Không hứa việc không có tool (gia hạn, báo giảng viên). Chặn được **KB 11** ("đã báo TA, bạn yên tâm nộp muộn").
+  5. **Chỉ nói "đã gửi TA" khi `chuyen_TA` trả về thành công, và luôn kèm giờ bắt đầu trực cùng trạng thái hàng chờ.** Không hứa việc không có tool (gia hạn, báo giảng viên). Chặn được **KB 11** ("đã báo TA, bạn yên tâm nộp muộn").
   6. **Hạn nộp chỉ lấy từ trang khoá học**, không suy ra, không nhớ từ hội thoại trước. Áp dụng cho **KB 4** và **KB 11**.
   7. **Kiến thức ngoài tài liệu phải gắn nhãn "ngoài tài liệu"**, tách khỏi phần trích tài liệu. Áp dụng cho **KB 4** và **KB 5**.
 
 - **Mức tự chủ đã đổi lời hứa nào với người dùng:**
   - **`goi_y_bai_tap`: bài đang mở chỉ tới bậc 2, đáp số bị cấm.** Lời hứa đổi từ **"trợ lý giải bài giúp bạn"** thành **"trợ lý giúp bạn tự làm được bài"**. Học viên lúc 23h sẽ thấy hụt, nên câu chữ ở §3 phải nói trước điều này, ví dụ: "Bài 3 đang mở tới 23:59 nên mình chỉ gợi ý bước đầu, không xác nhận đáp số."
-  - **`chuyen_TA`: tự làm, nhưng ngoài giờ TA.** Lời hứa là **"câu hỏi của bạn chắc chắn tới TA, TA trả lời từ 08:00"**, không phải "TA trả lời ngay". Cũng không phải "TA sẽ gia hạn cho bạn" (KB 11).
+  - **`chuyen_TA`: tự làm, nhưng ngoài giờ TA.** Lời hứa là **"phiếu đã vào hàng chờ TA; TA bắt đầu trực lúc 08:00, thời điểm phản hồi chưa được bảo đảm"**, không phải "TA phản hồi ngay". Cũng không phải "TA sẽ gia hạn cho bạn" (KB 11).
   - **`dang_FAQ`: cần TA duyệt.** Lời hứa với cả lớp là **"mọi câu trong FAQ đều đã có TA đọc"**, không phải "FAQ cập nhật tức thì".
 
 - **Mức tự chủ hiện trên màn hình thế nào** _(để §5 Prototype đối chiếu; rubric R5 chấm đúng 4 điểm này)_:
-  - **Tự làm có hoàn tác:** thẻ "Đã gửi TA · trả lời từ 08:00 · **[Huỷ yêu cầu]**"; nhãn mã mục §3.x bấm mở được đoạn gốc.
+  - **Tự làm có hoàn tác:** thẻ "Đã vào hàng chờ TA · bắt đầu trực lúc 08:00 · **[Huỷ yêu cầu]**"; nhãn mã mục §3.x bấm mở được đoạn gốc.
   - **Cần duyệt có xác nhận:** màn hình hàng chờ phía TA có nháp FAQ, cờ đỏ §3.3 và các nút [Đăng] / [Sửa rồi đăng] / [Bỏ]. Đây cũng là bonus riêng của T2 ("có màn hình phía TA").
   - **Có đường chuyển người:** nút **[Hỏi TA]** luôn có trên câu trả lời về bài đang mở.
   - **Việc cấm không có nút làm:** không có nút "Xem đáp án" hay "Kiểm tra đáp số" cho Bài tập 3, chỉ có [Gợi ý bước tiếp] và [Hỏi TA].
@@ -367,6 +367,7 @@
   - Phản hồi AI dùng kịch bản cố định và một số mẫu câu nhận diện. Các thao tác `tra_cuu_tai_lieu`, `goi_y_bai_tap`, `chuyen_TA`, `soan_FAQ` và `dang_FAQ` đều được mô phỏng bằng trạng thái trong bộ nhớ trình duyệt. Tải lại trang sẽ bắt đầu phiên mới.
   - Câu hỏi học viên, phiếu TA và nháp FAQ là dữ liệu giả lập. Giao diện gắn nhãn **Trợ lý AI**, **Prototype** và **Mô phỏng**. Câu ngoài kịch bản nhận thông báo chưa có phản hồi đã kiểm chứng, kèm đường chuyển TA.
   - Bối cảnh học viên cố định vào tối **13/11/2026**, Bài tập 3 đang mở tới **23:59**. Chuyển tab TA mô phỏng **08:00 ngày 14/11/2026** để trình diễn bước tiếp nhận và duyệt sau giờ trực.
+  - Bộ nhận diện ưu tiên mâu thuẫn nguồn §3.3 dù câu có nhắc Bài 3. Câu hỏi đáp số chưa nêu số bài mở bước hỏi lại và giữ giới hạn bài đang mở. Trạng thái bài được đọc từ dữ liệu trang khoá học trong demo. Phiếu TA hiển thị riêng căn cứ nguồn, trạng thái Bài tập 3 hoặc giới hạn quyền gia hạn theo từng loại.
   - Tài liệu khoá học gốc chưa có trong workspace. Hộp nguồn dùng **bản tóm lược từ spec**, có nhãn giải thích ngay trong hộp. Riêng câu nghi sai ở §3.3 được giữ nguyên văn từ §3.2 của spec và tô vàng khi mở nguồn.
 
 - **Ảnh chụp màn hình đánh số**
@@ -388,7 +389,7 @@
 
 **Luồng demo từ đầu tới cuối**
 
-1. **KB 8 — Xin xác nhận đáp số.** Chọn Ca khó 1 → **Nạp câu hỏi demo** → **Gửi** → xem giới hạn và mở badge nguồn → **Gợi ý bước tiếp** `[UI-2c]` → **Vẫn kẹt sau bậc 2** hoặc **Hỏi TA** `[UI-2d]` → nhận phiếu với giờ phản hồi sau hạn nộp → thử **Sửa ghi chú / Huỷ yêu cầu / Gửi lại TA** → chuyển tab TA và **Mở phiếu**. Học viên thấy trạng thái TA đã tiếp nhận khi quay lại.
+1. **KB 8 — Xin xác nhận đáp số.** Chọn Ca khó 1 → **Nạp câu hỏi demo** → **Gửi** → xem giới hạn và mở badge nguồn → **Gợi ý bước tiếp** `[UI-2c]` → **Vẫn kẹt sau bậc 2** hoặc **Hỏi TA** `[UI-2d]` → nhận phiếu trong hàng chờ với giờ TA bắt đầu trực và cảnh báo phản hồi có thể sau hạn nộp → thử **Sửa ghi chú / Huỷ yêu cầu / Gửi lại TA** → chuyển tab TA và **Mở phiếu**. Học viên thấy trạng thái TA đã tiếp nhận khi quay lại.
 2. **KB 2 — Nguồn có câu nghi sai.** Bắt đầu lại phiên → chọn Ca khó 2 → nạp và gửi câu hỏi → xem phản chứng, mở nguồn §3.3 → nhận phiếu TA tự gửi và nháp FAQ → chuyển tab TA → xem phiếu, cảnh báo và nháp → **Đăng** → thử **Huỷ** để giữ nháp → **Sửa rồi đăng**, chỉnh nội dung → **Đăng / Xác nhận đăng** → thấy FAQ đã đăng trong mô phỏng. Có thể **Bỏ** nháp hoặc **Gỡ FAQ** đã đăng.
 
 - **Quyết định thiết kế cách hiện độ chắc/bằng chứng & điều khiển mức tự chủ**
@@ -397,11 +398,11 @@
   - _Vì sao chọn._ Người học nhìn được AI dựa vào đâu, phần nào cần kiểm chứng và việc gì làm được ngay lúc sát hạn. Chuyển TA có hoàn tác giúp báo lỗi nguồn mà vẫn cho học viên rút lại. FAQ cần TA duyệt giúp kiểm tra nội dung trước khi hiển thị cho cả lớp, khớp cost-of-error ở §4.
   - _Vì sao loại các cách kia._ Demo chưa có cơ sở hiệu chỉnh điểm tin cậy dạng phần trăm. Badge nguồn đơn lẻ chưa thể hiện mâu thuẫn ngay trong nguồn §3.3. Yêu cầu xác nhận trước mọi lần chuyển TA làm tăng khả năng học viên bỏ qua việc báo lỗi tài liệu. Cho FAQ tự đăng làm tăng phạm vi ảnh hưởng của câu sai.
 
-- **Kiểm chứng prototype.** Đã thao tác qua hai ca khó và các nhánh xem nguồn, giới hạn gợi ý, sửa/huỷ/gửi lại phiếu, TA tiếp nhận, sửa/duyệt/huỷ/bỏ/gỡ FAQ. Đã thử ca bình thường, thiếu slide, câu hỏi mơ hồ, xin gia hạn, bài đã đóng, buổi chưa mở và câu ngoài kịch bản. Ba ảnh bằng chứng được chụp từ giao diện đang chạy.
+- **Kiểm chứng prototype.** Đã thao tác qua hai ca khó và các nhánh xem nguồn, giới hạn gợi ý, sửa/huỷ/gửi lại phiếu, TA tiếp nhận, sửa/duyệt/huỷ/bỏ/gỡ FAQ. Đã thử câu đáp số không nêu số bài, nhiều cách nêu lỗi §3.3 có kèm “Bài 3”, ca bình thường, thiếu slide, câu hỏi mơ hồ, xin gia hạn, bài đã đóng, buổi chưa mở và câu ngoài kịch bản. Ba ảnh bằng chứng được chụp lại từ giao diện sau sửa.
 
 ---
 
-## §6. Tốt là gì _(chặng 6 — nhẹ, bỏ được nếu thiếu giờ — Phụ trách: Nguyễn Đức Nhật)_
+## §6. Tốt là gì _(chặng 6 — nhẹ, bỏ được nếu thiếu giờ — Phụ trách: Võ Hồng Lương)_
 
 - **3 tiêu chí Pass/Fail chấm được không cần tranh luận:**
   1. **Không xác nhận đáp số bài đang mở.** Pass khi KB 8 hiển thị trạng thái Bài tập 3 đang mở, không xuất hiện đáp số `15,25` hoặc `11,5` trong phản hồi, đồng thời có ít nhất một việc học viên làm ngay là tự kiểm theo §3.1–§3.2. Fail khi AI nói đúng/sai, tính hộ hoặc có nút xem đáp án.
@@ -411,3 +412,4 @@
   - _KB đắt nhất #1 — KB 8:_ **Pass cả 3 tiêu chí.** Prototype chặn xác nhận đáp số, hiển thị khung tự kiểm theo §3.1–§3.2 và cho Hỏi TA. Badge nguồn mở được. Phiếu TA có giờ trả lời, Huỷ yêu cầu và Sửa ghi chú.
   - _KB đắt nhất #2 — KB 2:_ **Pass cả 3 tiêu chí.** Prototype xác nhận phép tính `√0,25 = 0,5`, gắn cờ câu §3.3 cần xem lại, tách phần kiến thức chắc chắn, tự tạo phiếu TA có hoàn tác và đưa FAQ vào hàng chờ duyệt. TA có thể Đăng, Sửa rồi đăng hoặc Bỏ.
 - **Lỗi còn lại chưa sửa được:** Prototype vẫn dùng phản hồi theo kịch bản và nguồn tóm lược từ `spec.md`, chưa kết nối tài liệu khoá học thật hoặc công cụ AI/TA thật. Vì vậy chưa thể kiểm tra độ chính xác khi người học nhập câu hỏi ngoài các ca đã định nghĩa hoặc xác nhận SLA thực tế của TA.
+

diff --git a/prototype/README.md b/prototype/README.md
@@ -8,11 +8,13 @@ Mở [index.html](index.html) bằng Chrome, Edge hoặc Firefox. Prototype gồ
 
 1. Giữ lựa chọn “Ca khó 1”, bấm **Nạp câu hỏi demo** rồi **Gửi**.
 2. Đọc trạng thái Bài tập 3 đang mở, hạn 23:59 và giới hạn gợi ý. Bấm badge **§3.1** hoặc **§3.2** để xem căn cứ.
-3. Bấm **Gợi ý bước tiếp** để mở phương pháp bậc 2. Bấm **Vẫn kẹt sau bậc 2** hoặc **Hỏi TA** để tạo phiếu. TA tiếp nhận từ 08:00 ngày 14/11, sau hạn nộp.
+3. Bấm **Gợi ý bước tiếp** để mở phương pháp bậc 2. Bấm **Vẫn kẹt sau bậc 2** hoặc **Hỏi TA** để tạo phiếu trong hàng chờ. TA bắt đầu trực lúc 08:00 ngày 14/11; thời điểm phản hồi chưa được bảo đảm và có thể sau hạn nộp.
 4. Bấm **Sửa ghi chú**, lưu rồi bấm **Huỷ yêu cầu**. Phiếu được rút khỏi hàng chờ. Có thể bấm **Gửi lại TA**.
 5. Chọn tab **Hàng chờ TA**, bấm **Mở phiếu**. Phiếu chuyển sang đã tiếp nhận. Khi trở lại màn hình học viên, trạng thái này được cập nhật.
 
 Các lượt gợi ý giữ giới hạn hai bậc. Nội dung AI chỉ hướng dẫn cách tự kiểm.
+
+Nếu nhập “Bài này em ra trung vị 11,5 đúng không?”, trợ lý hỏi số bài trước và giữ giới hạn bài đang mở trong lúc chờ làm rõ. Chọn **Bài tập 3** sẽ mở luồng tự kiểm mà không xác nhận kết quả. Trạng thái bài lấy từ dữ liệu trang khoá học trong demo, kể cả khi người học nói bài đã đóng.
 
 ### Ca 2 · Tài liệu §3.3 có câu cần xem lại
 
@@ -21,6 +23,8 @@ Các lượt gợi ý giữ giới hạn hai bậc. Nội dung AI chỉ hướng
 3. Phiếu TA được tạo tự động trong trạng thái mô phỏng, kèm **Huỷ yêu cầu** và **Sửa ghi chú**. Nháp FAQ ẩn danh vào hàng chờ duyệt.
 4. Chuyển tab **Hàng chờ TA**, tương ứng 08:00 ngày 14/11. Xem câu hỏi, mã mục, cảnh báo và nháp FAQ.
 5. Chọn **Đăng** để xem bản xác nhận gửi tới cả lớp. Chọn **Huỷ** để giữ nháp. Chọn **Sửa rồi đăng**, chỉnh nội dung, bấm **Đăng** và **Xác nhận đăng** để hoàn tất. FAQ đã đăng có nút **Gỡ FAQ**. Nút **Bỏ** loại nháp trước khi đăng.
+
+Cách hỏi khác có nhắc “Bài 3” cùng mâu thuẫn toán học ở §3.3 vẫn vào luồng kiểm tra nguồn. Phiếu báo nguồn chỉ ghi §3.3 và lý do cần xem lại. Phiếu Bài tập 3 mới ghi trạng thái bài đang mở; phiếu xin gia hạn ghi rõ AI không có quyền gia hạn.
 
 ## Ảnh đánh số và đối chiếu HAX/PAIR
 
